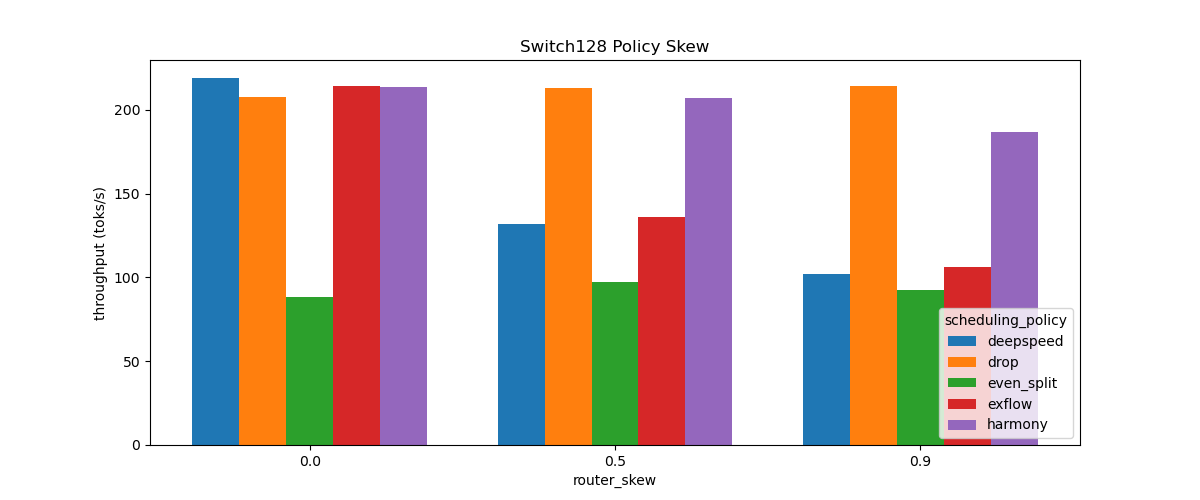
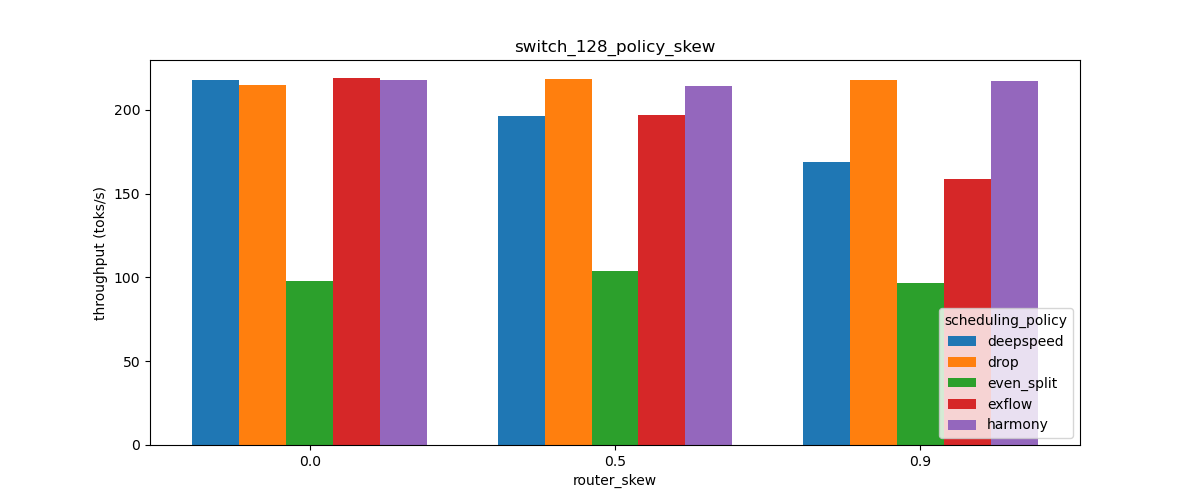
new skew def and implementation

diff --git a/src/harmonymoe/router.py b/src/harmonymoe/router.py
@@ -60,19 +60,41 @@ class Router(nn.Module):
         return expert_indices, probs, logits
 
     def skew_forward(self, x):
-        skewed_multinomial_prob = self.config.skew / self.config.num_experts_skewed
-        multinomial_prob = (1.0 - self.config.skew) / (
-            self.config.num_experts - self.config.num_experts_skewed
-        )
+        # skewed_multinomial_prob = self.config.skew / self.config.num_experts_skewed
+        # multinomial_prob = (1.0 - self.config.skew) / (
+        #     self.config.num_experts - self.config.num_experts_skewed
+        # )
+
+        # multinomial_probs = torch.full(
+        #     (self.config.num_experts,), multinomial_prob, device=x.device
+        # )
+        # multinomial_probs[: self.config.num_experts_skewed] = skewed_multinomial_prob
+
+        non_skewed_proportion = 1 / (self.config.skew + self.config.num_experts)
+        skewed_proportion = (self.config.num_experts_skewed + self.config.skew) / (self.config.num_experts_skewed * (self.config.skew + self.config.num_experts))
 
         multinomial_probs = torch.full(
-            (self.config.num_experts,), multinomial_prob, device=x.device
+            (self.config.num_experts,), non_skewed_proportion, device=x.device
         )
-        multinomial_probs[: self.config.num_experts_skewed] = skewed_multinomial_prob
+        multinomial_probs[:self.config.num_experts_skewed] = skewed_proportion
+        # multinomial_probs[:self.config.num_experts_skewed] += self.config.skew / self.config.num_experts_skewed
+        # multinomial_probs[self.config.num_experts_skewed:] -= self.config.skew / (self.config.num_experts - self.config.num_experts_skewed)
 
-        expert_indices = torch.multinomial(
-            multinomial_probs, num_samples=x.shape[0], replacement=True
-        )
+        num_tokens_per_expert = (multinomial_probs * x.shape[0]).floor().long()
+
+        disrepancy = x.shape[0] - num_tokens_per_expert.sum()
+        for i in range(disrepancy): # Disrepancy must be less than self.config.num_experts
+            multinomial_probs[i] += 1
+        
+        expert_indices = []
+        for expert_idx, num_tokens in enumerate(num_tokens_per_expert):
+            expert_indices.append(torch.full((num_tokens.item(),), expert_idx, dtype=torch.long, device=x.device))
+        
+        expert_indices = torch.cat(expert_indices)
+
+        # expert_indices = torch.multinomial(
+        #     multinomial_probs, num_samples=x.shape[0], replacement=True
+        # )
 
         expert_indices = nn.functional.one_hot(
             expert_indices, num_classes=self.config.num_experts

diff --git a/plotting/create_csv/create_csv.py b/plotting/create_csv/create_csv.py
@@ -153,7 +153,7 @@ def load_data(args):
                     df.append(row)
 
 
-    if isinstance(df, dict):
+    if isinstance(df, dict) or isinstance(df, list):
         df = pd.DataFrame(df)
     return df
 
